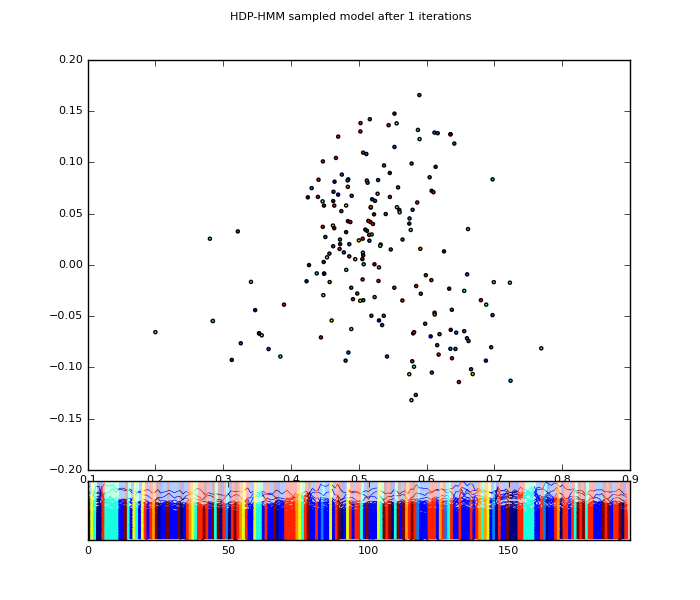
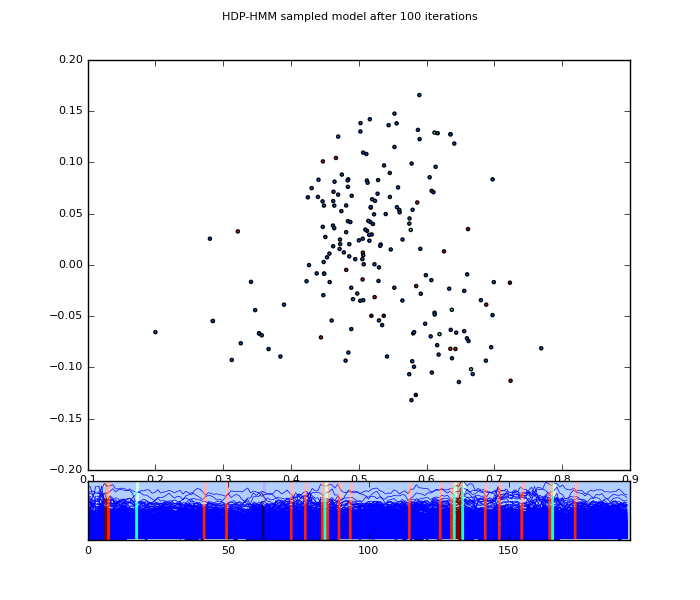
Initial plots from old method

Changed region(s): [[0.12, 0.78, 0.9, 0.9], [0.33, 0.0, 0.69, 0.03]]

diff --git a/100infer.py b/100infer.py
@@ -52,7 +52,7 @@ data = data - mean[:, np.newaxis]
 Nmax = 10
 
 # Set iteration count
-ITERATIONS = 1
+ITERATIONS = 100
 
 # and some hyperparameters
 obs_dim = data.shape[1]
@@ -148,7 +148,7 @@ for idx in progprint_xrange(ITERATIONS):
 
 posteriormodel.plot()
 plt.gcf().suptitle('HDP-HMM sampled model after {} iterations'.format(ITERATIONS))
-plt.savefig('plots/' + testcase + '/hdp-hmm.png')
+plt.savefig('plots/' + testcase + '/100-hdp-hmm.png')
 plt.close() 
 
 # Some more hypparams
@@ -173,7 +173,7 @@ for idx in progprint_xrange(ITERATIONS):
 
 posteriormodel.plot()
 plt.gcf().suptitle('Sticky HDP-HMM sampled model after {} iterations'.format(ITERATIONS))
-plt.savefig('plots/' + testcase + '/sticky-hdp-hmm.png')
+plt.savefig('plots/' + testcase + '/100-sticky-hdp-hmm.png')
 plt.close()
 
 '''
@@ -199,7 +199,7 @@ for idx in progprint_xrange(ITERATIONS):
 
 posteriormodel.plot()
 plt.gcf().suptitle('HDP-HSMM sampled model after {} iterations'.format(ITERATIONS))
-plt.savefig('plots/' + testcase + '/hdp-hsmm.png')
+plt.savefig('plots/' + testcase + '/100-hdp-hsmm.png')
 plt.close() 
 
 

diff --git a/50infer.py b/50infer.py
@@ -52,7 +52,7 @@ data = data - mean[:, np.newaxis]
 Nmax = 10
 
 # Set iteration count
-ITERATIONS = 1
+ITERATIONS = 50
 
 # and some hyperparameters
 obs_dim = data.shape[1]
@@ -148,7 +148,7 @@ for idx in progprint_xrange(ITERATIONS):
 
 posteriormodel.plot()
 plt.gcf().suptitle('HDP-HMM sampled model after {} iterations'.format(ITERATIONS))
-plt.savefig('plots/' + testcase + '/hdp-hmm.png')
+plt.savefig('plots/' + testcase + '/50-hdp-hmm.png')
 plt.close() 
 
 # Some more hypparams
@@ -173,7 +173,7 @@ for idx in progprint_xrange(ITERATIONS):
 
 posteriormodel.plot()
 plt.gcf().suptitle('Sticky HDP-HMM sampled model after {} iterations'.format(ITERATIONS))
-plt.savefig('plots/' + testcase + '/sticky-hdp-hmm.png')
+plt.savefig('plots/' + testcase + '/50-sticky-hdp-hmm.png')
 plt.close()
 
 '''
@@ -199,7 +199,7 @@ for idx in progprint_xrange(ITERATIONS):
 
 posteriormodel.plot()
 plt.gcf().suptitle('HDP-HSMM sampled model after {} iterations'.format(ITERATIONS))
-plt.savefig('plots/' + testcase + '/hdp-hsmm.png')
+plt.savefig('plots/' + testcase + '/50-hdp-hsmm.png')
 plt.close() 
 
 
